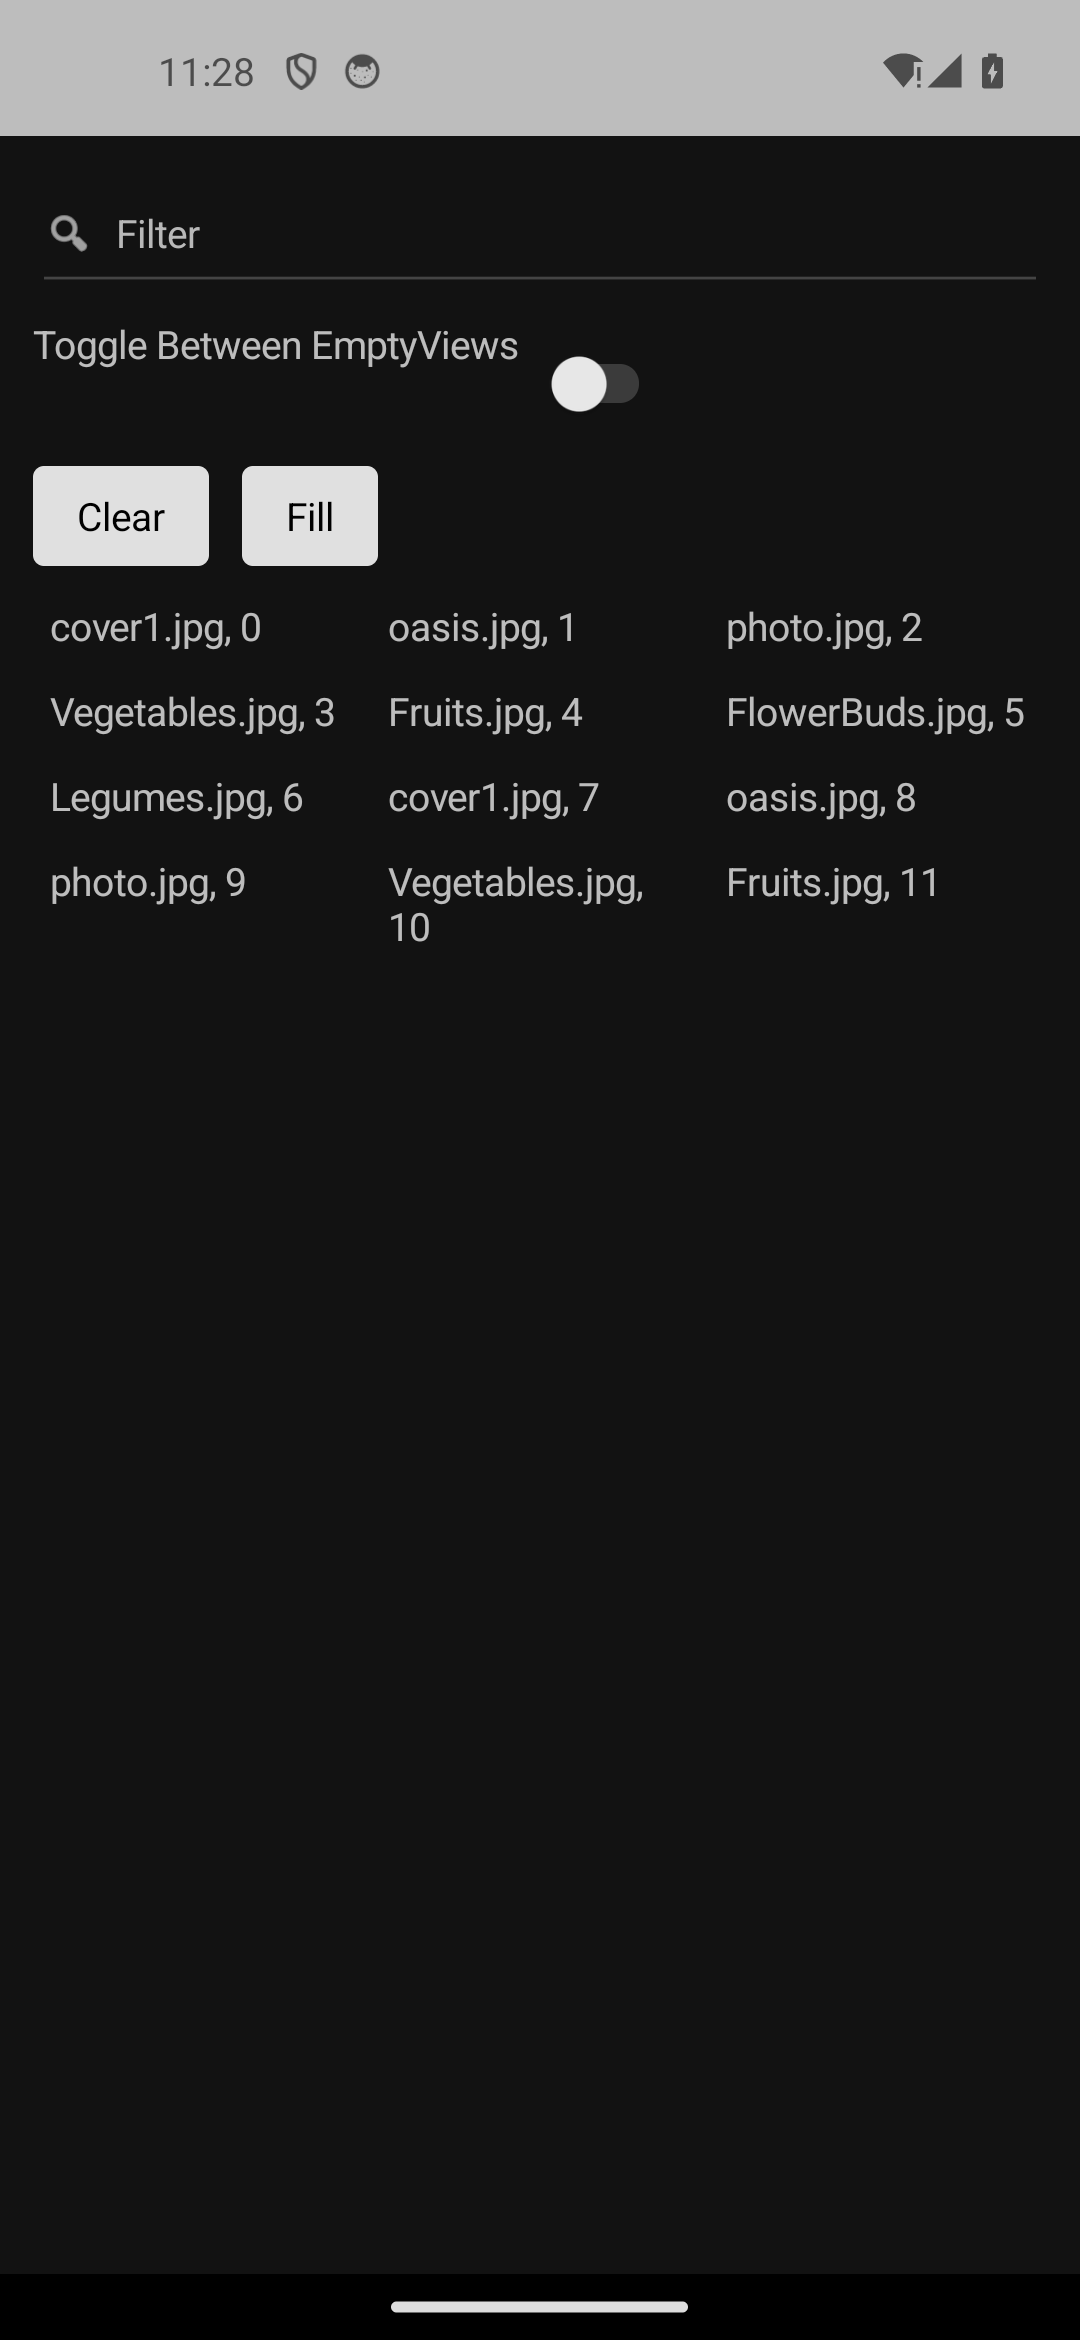
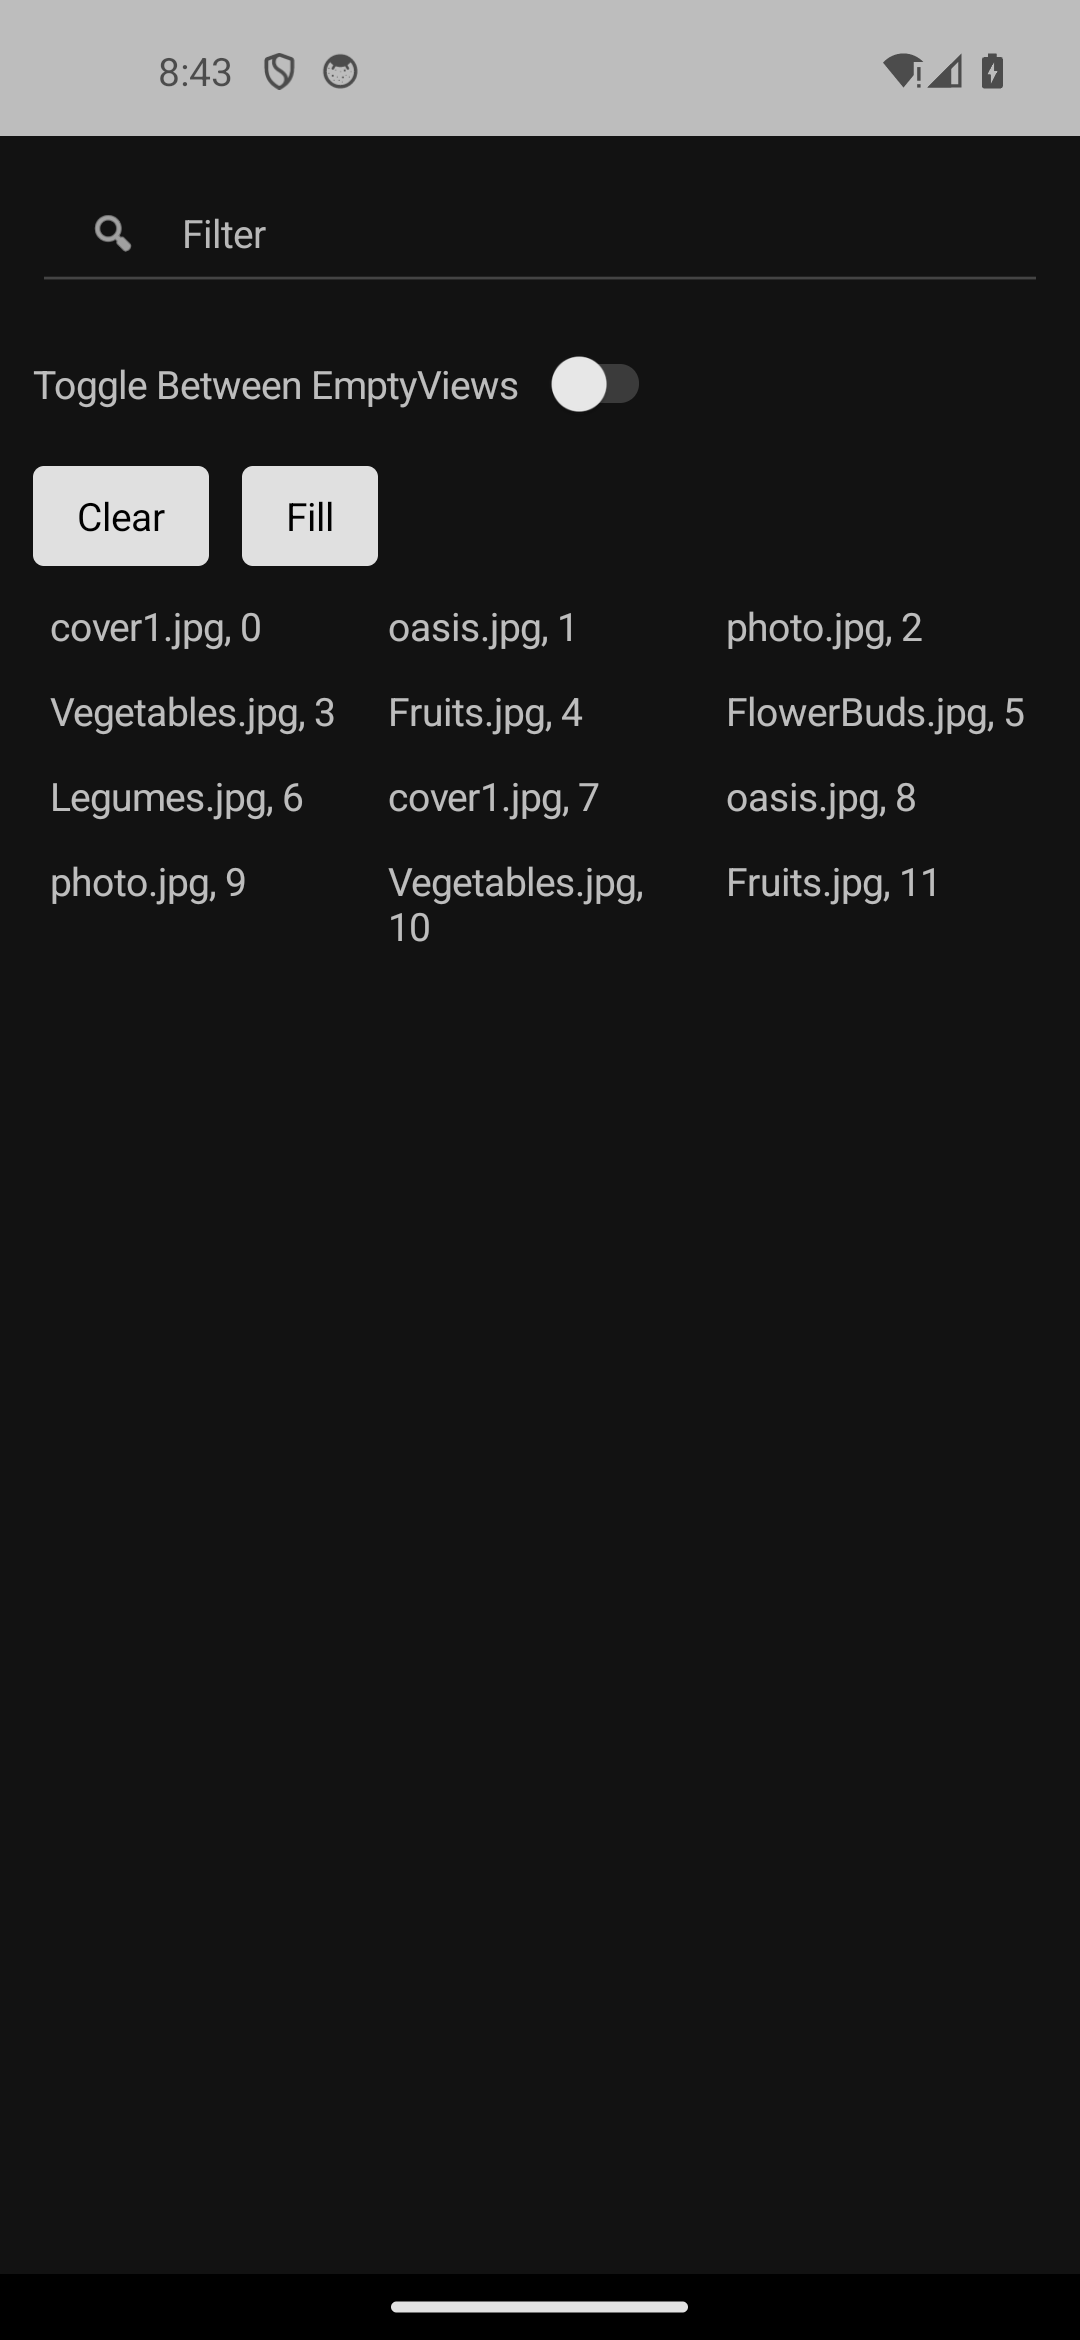
fix(android/parity): empty_view_swap toggle label VerticalTextAlignment=Center -> GREEN
Last cpp-only page-builder divergence from the shared XAML (empty_view_swap was cpp yellow
while the xaml column, rendering the same XAML, was already green). The row-1 caption
'Toggle Between EmptyViews' is authored VerticalTextAlignment="Center" in the shared
empty_view_swap.xaml, but the code-first builder set only the text. The HorizontalStackLayout's
height is driven by the taller Switch, so without center alignment the label top-aligned ~40px
above MAUI's centered position (measured toggle-label top y: cpp 332 vs maui/xaml 372). Both
themes already passed the diff%% gate; they failed ONLY on SSIM from this structural offset.

Added toggle_caption_.set_vertical_text_alignment(center). cpp Light SSIM 0.9754->0.9898,
Dark 0.9738->0.9886 -> GREEN both themes. cpp-only page-builder change (xaml untouched),
0 regressions. Board: cpp 144->145 green / 25 yellow / 2 red.

Changed region(s): [[0.0306, 0.0936, 0.4889, 0.1872], [0.2444, 0.0, 0.3361, 0.0624], [0.1528, 0.0, 0.1833, 0.0312]]

diff --git a/port/cpp/examples/gallery/pages/empty_view_swap_page.hpp b/port/cpp/examples/gallery/pages/empty_view_swap_page.hpp
@@ -100,6 +100,9 @@ namespace maui::samples
 
             // ---- row 1: the "Toggle Between EmptyViews" Label + Switch (horizontal StackLayout) ----
             toggle_caption_.set_text("Toggle Between EmptyViews");
+            // VerticalTextAlignment="Center" (shared XAML): center the caption within the HSL, whose
+            // height is driven by the taller Switch — otherwise the label top-aligns ~40px above MAUI.
+            toggle_caption_.set_vertical_text_alignment(maui::core::text_alignment::center);
             toggle_row_.set_spacing(8);
             toggle_row_.add(toggle_caption_);
             toggle_row_.add(empty_view_switch_);

diff --git a/port/cpp/docs/comparison/README.md b/port/cpp/docs/comparison/README.md
@@ -5205,8 +5205,8 @@ Real .NET MAUI vs the C++ port vs the compile-time-XAML gallery, captured on the
 
 | Classification | Pixel-Perfect Score — C++ (C1/C3) | Pixel-Perfect Score — C++ &amp; XAML (C2/C4) |
 | --- | --- | --- |
-| 🟢 Match | 144 | 145 |
-| 🟡 Minor | 26 | 25 |
+| 🟢 Match | 145 | 145 |
+| 🟡 Minor | 25 | 25 |
 | 🔴 Major | 2 | 2 |
 | ⬛ Blank | 0 | 0 |
 | ⏳ Unreviewed | 0 | 0 |
@@ -6006,16 +6006,16 @@ Light: SSIM 0.9895, 0.24% pixels differ · Dark: SSIM 0.9884, 0.28% pixels diffe
 
 Light: SSIM 0.9895, 0.24% pixels differ · Dark: SSIM 0.9885, 0.28% pixels differ
 
-### 54. Empty View Swap — 🟡/🟢
+### 54. Empty View Swap — 🟢/🟢
 <sub>empty_view_swap</sub>
 
 <table><tr><th></th><th>MAUI</th><th>C++</th><th>C++ &amp; XAML</th></tr><tr><th>Light</th><td><img width="300px" src="captures/android/maui/empty_view_swap_light.png" /></td><td><img width="300px" src="captures/android/cpp/empty_view_swap_light.png" /></td><td><img width="300px" src="captures/android/xaml/empty_view_swap_light.png" /></td></tr><tr><th>Dark</th><td><img width="300px" src="captures/android/maui/empty_view_swap_dark.png" /></td><td><img width="300px" src="captures/android/cpp/empty_view_swap_dark.png" /></td><td><img width="300px" src="captures/android/xaml/empty_view_swap_dark.png" /></td></tr></table>
 
 ports EmptyViewGalleries/EmptyViewSwapGallery.xaml (+ .xaml.cs)
 
-#### 🟡 Pixel-Perfect Score — C++ (C1/C3)
+#### 🟢 Pixel-Perfect Score — C++ (C1/C3)
 
-Light: SSIM 0.9754, 0.71% pixels differ · Dark: SSIM 0.9738, 0.90% pixels differ
+Light: SSIM 0.9898, 0.27% pixels differ · Dark: SSIM 0.9886, 0.42% pixels differ
 
 #### 🟢 Pixel-Perfect Score — C++ &amp; XAML (C2/C4)
 
